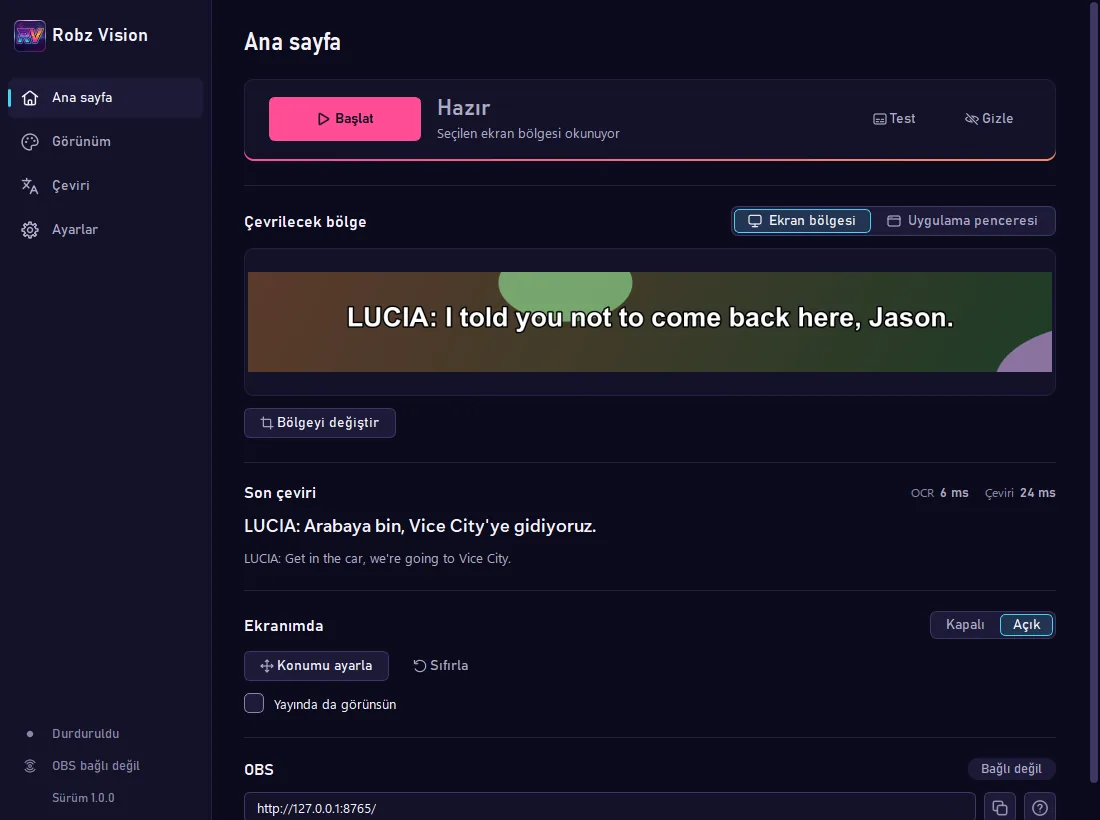
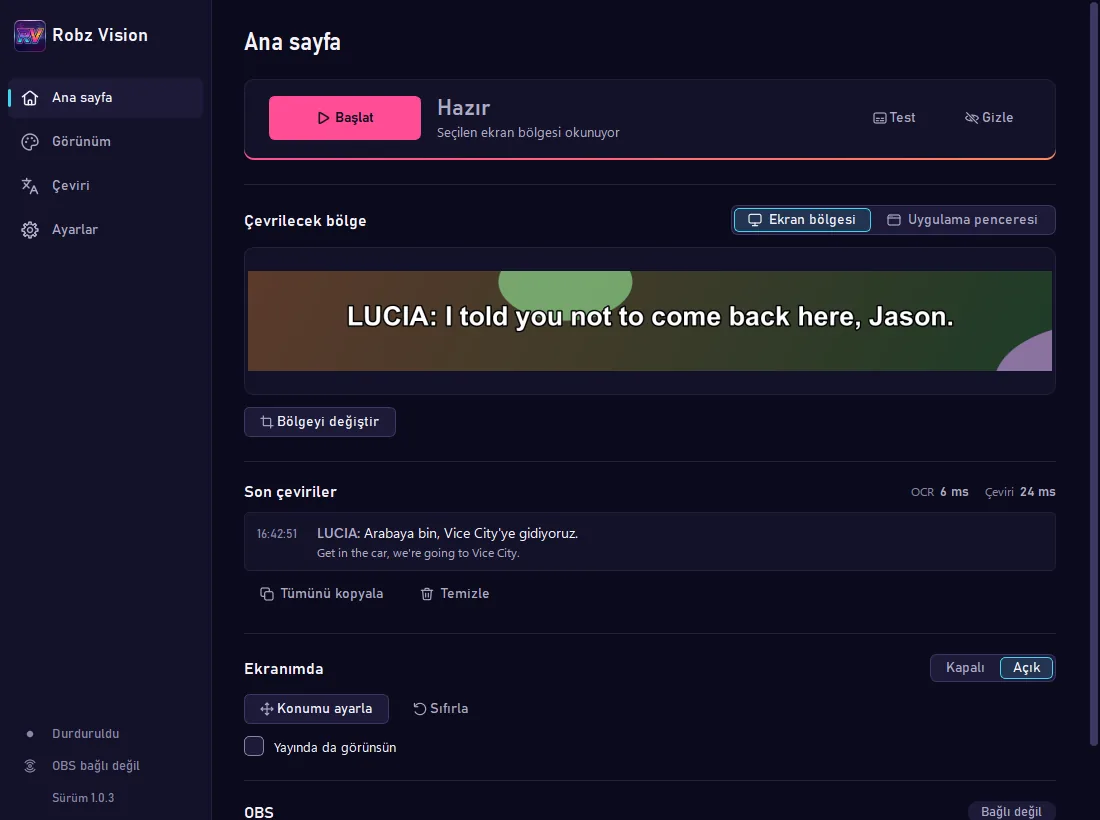
Belgeler: altyazı akışı ve son çeviriler; ekran görüntüleri yenilendi
README, kullanım kılavuzu ve CHANGELOG güncellendi; README ve sitedeki ana sayfa görüntüsü yeni
"Son çeviriler" bölümünü gösteriyor (sahte test sahnesinden, ekran yakalanmadan).

diff --git a/docs/KULLANIM.md b/docs/KULLANIM.md
@@ -67,13 +67,24 @@ yeşile boyanır; altyazı geldiğinde yeşil alan görünmüyorsa bölge ya da 
 ## 3. Başlatın
 
 **Başlat**'a basın. Üstteki bant *Çalışıyor* olur. Oyunda altyazı belirince Türkçesi ekrandaki kutuda ve
-OBS'te görünür. **Son çeviri** bölümü okunan İngilizce metni, çeviriyi ve OCR ile çeviri sürelerini gösterir.
+OBS'te görünür.
 
 ![Ana sayfa: Başlat düğmesi, bölge önizlemesi, son çeviri, Ekranımda ve OBS bölümleri](gorseller/ana_pencere.png)
 
 - **Test** düğmesi ekranınızda ve OBS'te 5 saniyelik örnek bir altyazı gösterir. Oyun açmadan görünümü
   denemek için kullanın.
 - **Gizle** çeviriyi geçici olarak gizler; program okumaya devam eder.
+- **Altyazı akışı** (*Ayarlar → Altyazı akışı*): *Akış*'ta son çeviriler ekranda ve OBS'te alt alta kalır,
+  hızlı konuşmada satır kaybolmaz. Ekranda en fazla kaç satır duracağını (2–4) ve her satırın en az kaç saniye
+  kalacağını buradan seçersiniz. Yalnız son çeviriyi görmek isterseniz *Tek satır*'ı seçin.
+
+**Son çeviriler** listesi bu oturumda okunan satırları Türkçesi ve İngilizcesiyle gösterir, en yenisi üstte.
+Başlığın yanında en son satırın OCR ve çeviri süreleri durur. Kaçırdığınız bir satırı buradan okuyabilirsiniz:
+
+- Satırın üzerine gelip sağdaki kopyala simgesine basın, Türkçesi kopyalanır. Sağ tıklayıp
+  *İngilizce + Türkçe kopyala*'yı da seçebilirsiniz.
+- **Tümünü kopyala** listedeki satırları eskiden yeniye, saatiyle kopyalar. **Temizle** listeyi boşaltır.
+- Liste yalnız bellekte tutulur (son 200 satır), diske yazılmaz. Uygulamayı kapatınca silinir.
 
 ## 4. Türkçe kutuyu ekranınıza yerleştirin
 

diff --git a/CHANGELOG.md b/CHANGELOG.md
@@ -6,8 +6,21 @@ Bu projedeki önemli değişiklikler bu dosyada tutulur. Biçim
 
 ## [Yayımlanmadı]
 
+### Eklendi
+
+- **Altyazı akışı:** son çeviriler alt alta kalır (en yenisi altta, öncekiler yukarıda soluk), her satır oyun
+  sonrakine geçse de en az 3 saniye ekranda durur. Ekranda ve OBS'te aynı çalışır; *Ayarlar → Altyazı akışı*'ndan
+  satır sayısı (2–4), en az gösterim süresi ya da eski "Tek satır" seçilebilir.
+- **Son çeviriler:** Ana sayfada oturumdaki çevirilerin saatli listesi (Türkçe + İngilizce); tek satır ya da
+  tümü kopyalanabilir. Yalnızca bellekte tutulur, diske yazılmaz.
+
 ### Düzeltildi
 
+- Hızlı konuşmada altyazı satırları kayboluyordu: OCR ya da çeviri meşgulken gelen yeni satır, bekleyenin
+  üzerine yazılıyordu. Aşamalar arası artık sıralı kuyruk var; her satır okunup çevriliyor. Hibrit modda yavaş
+  motor (Ollama/Gemini) yeni satırların hızlı çevirisini bekletmiyor. Benzetimde kaybolan satır: yavaş motorla
+  8 → 0, art arda 7 kısa satırda 3 → 0.
+- Ekrandaki kutunun varsayılan yüksekliği, akıştaki üç satır sığacak şekilde büyütüldü.
 - Açık zemindeki beyaz altyazılar (GTA V'te kaldırım, beton, gökyüzü üstündeki gölgeli ya da gölgesiz yazı)
   "Metin yok" sayılıyor ve hiç okunmuyordu. Algılamaya yapay zekâ metin bulucu (PP-OCRv6, programla
   birlikte gelir) eklendi ve varsayılan olarak açık: renk ve kenar kuralına bakmadan harf şeklini tanır,

diff --git a/README.md b/README.md
@@ -88,6 +88,8 @@ PC oyunları, PS Remote Play ve Xbox uygulaması gibi uzaktan oynatma pencereler
   için de bir OBS Tarayıcı Kaynağı. İkisinin konumu birbirinden bağımsızdır.
 - **Bölge ya da pencere.** Altyazının çıktığı alanı fareyle seçersiniz. İsterseniz belirli bir uygulama
   penceresinden okursunuz; pencere başka pencerelerin arkasında kalsa da çalışır.
+- **Satır kaçmaz.** Hızlı konuşmada son çeviriler ekranda ve OBS'te alt alta kalır. Ana sayfadaki
+  *Son çeviriler* listesinden kaçırdığınız satırı yeniden okuyup kopyalayabilirsiniz.
 - **Gereksiz iş yapmaz.** Altyazı değişmedikçe OCR çalışmaz. Titreyen okumaları ayıklar, daha temiz bir okuma
   gelirse çeviriyi düzeltir. Konuşmacı adları (`LUCIA: …`) çevrilmez, ayrı renkte gösterilir.
 - **Sözlük.** Karakter ve yer adlarını olduğu gibi bırakır ya da sizin verdiğiniz karşılığı kullanır.
@@ -222,6 +224,7 @@ için kullanılmadı.
 
 - Varsayılan ayarlarla ekran görüntüsü, OCR ve çeviri bilgisayarınızda kalır. Görüntüler diske kaydedilmez,
   uygulama kullanım verisi toplamaz.
+- Ana sayfadaki *Son çeviriler* listesi yalnız bellekte tutulur, diske yazılmaz; uygulama kapanınca silinir.
 - İnternet bağlantısı yalnızca ilk açılışta çeviri modelini Hugging Face'ten indirmek için kullanılır.
   OCR modelleri programla birlikte gelir.
 - OBS sunucusu yalnızca `127.0.0.1` adresini dinler; ağdaki başka cihazlar erişemez.
